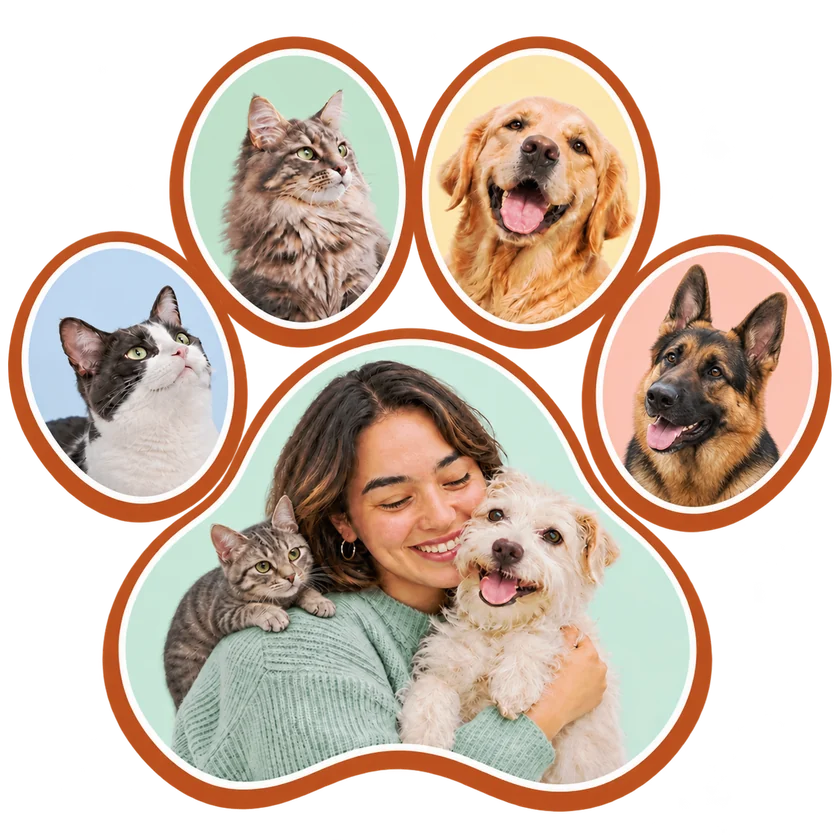
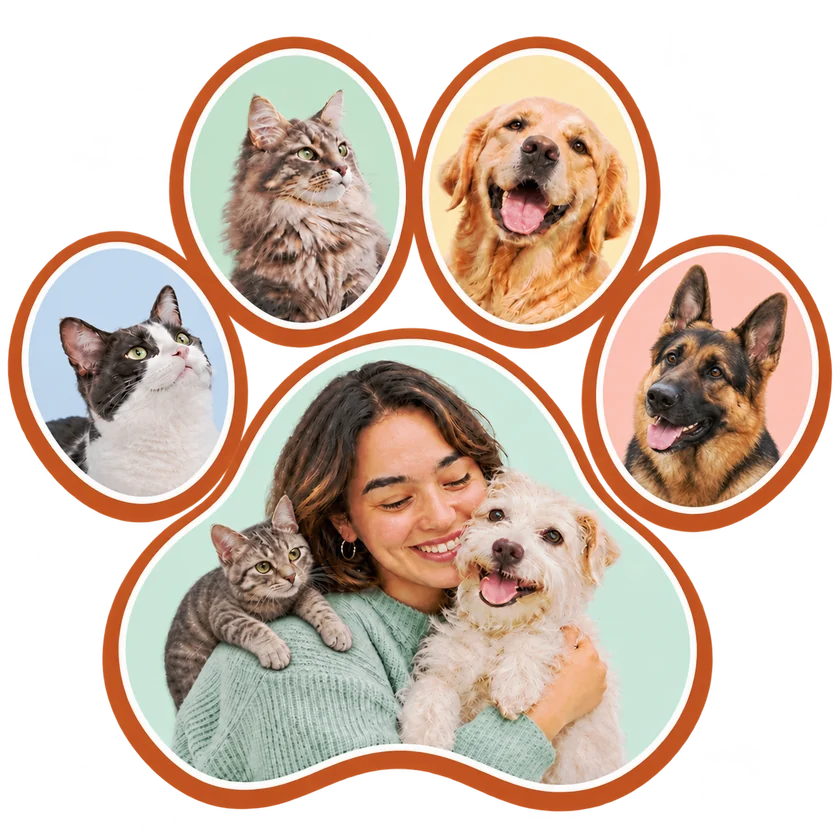
Refine the shoulder cat pose in PawBuddies

diff --git a/index.html b/index.html
@@ -42,7 +42,7 @@
           <button class="project-card" type="button" aria-pressed="false" aria-controls="live-preview" data-project="shiftledger" data-url="https://wesleybertolaia.github.io/shiftledger/?v=weekly-board">
             <span class="project-copy"><strong>ShiftLedger</strong><span>Team timesheets · React</span></span><span class="project-art art-shift" aria-hidden="true"></span>
           </button>
-          <button class="project-card" type="button" aria-pressed="false" aria-controls="live-preview" data-project="pawday" data-url="https://wesleybertolaia.github.io/pawday/?v=shepherd">
+          <button class="project-card" type="button" aria-pressed="false" aria-controls="live-preview" data-project="pawday" data-url="https://wesleybertolaia.github.io/pawday/?v=cat-paws">
             <span class="project-copy"><strong>PawBuddies</strong><span>Dog &amp; cat care</span></span><span class="project-art art-pawday" aria-hidden="true"></span>
           </button>
           <button class="project-card" type="button" aria-pressed="false" aria-controls="live-preview" data-project="gridshift" data-url="https://wesleybertolaia.github.io/gridshift/?v=workspace-refresh">

diff --git a/pawday/index.html b/pawday/index.html
@@ -5,7 +5,7 @@
   <meta name="viewport" content="width=device-width, initial-scale=1">
   <meta name="description" content="PawBuddies daycare, boarding and grooming for dogs and cats.">
   <title>PawBuddies | Daycare, boarding & grooming</title>
-  <link rel="stylesheet" href="./pawday.css?v=shepherd">
+  <link rel="stylesheet" href="./pawday.css?v=cat-paws">
   <script src="../locale.js?v=pet-bundle" defer></script>
   <script src="./pawday.js?v=pet-bundle" defer></script>
 </head>
@@ -27,7 +27,7 @@
         <a class="button preview-launch" href="#services">Find pet care</a>
       </div>
       <figure class="portrait" aria-hidden="true">
-        <img class="portrait-base" src="./pawday-paw.webp?v=shepherd" alt="" width="840" height="840" fetchpriority="high">
+        <img class="portrait-base" src="./pawday-paw.webp?v=cat-paws" alt="" width="840" height="840" fetchpriority="high">
       </figure>
     </section>
     <div id="service-placement"></div>

diff --git a/pawday/pawday.css b/pawday/pawday.css
@@ -84,7 +84,7 @@ h1 em { color: var(--burnt-orange); }
 .landing-dialog::backdrop { background: #39241677; }
 .landing-dialog .booking { margin: 0; }
 .portrait {
-  --artwork: url("./pawday-paw.webp?v=shepherd");
+  --artwork: url("./pawday-paw.webp?v=cat-paws");
   /* Follow the gaps between the toes and the central portrait. */
   --cat-edge: 49.25% 0%, 49.25% 28%, 49% 32%, 47.3% 35%, 46% 37%,
     44% 38%, 41.6% 40%, 36% 42%, 33% 43%, 30.5% 44.5%, 29.5% 46%,
